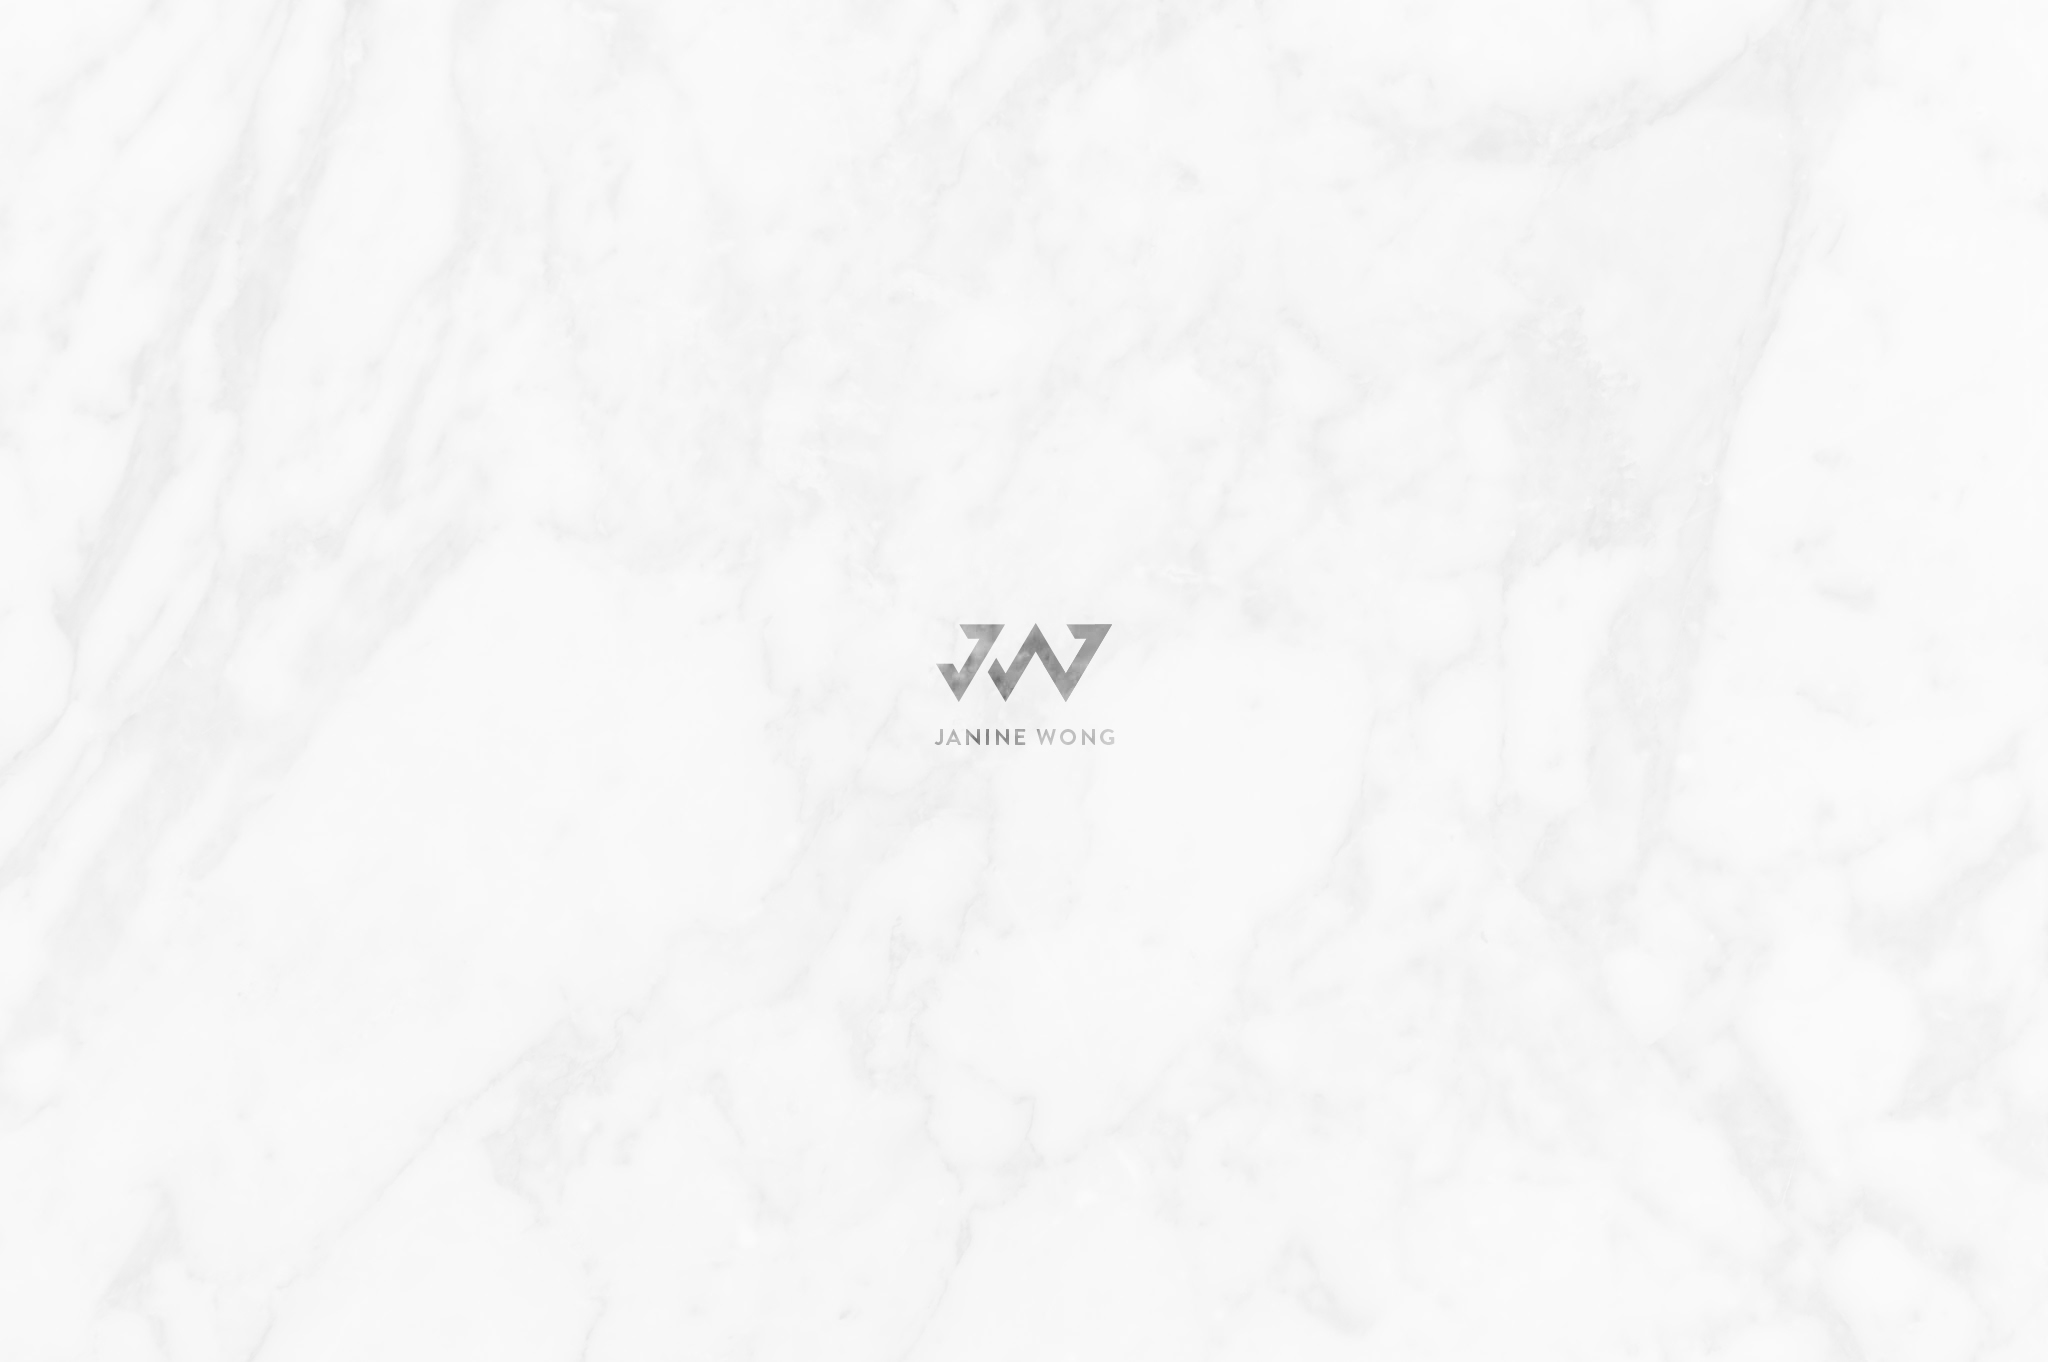
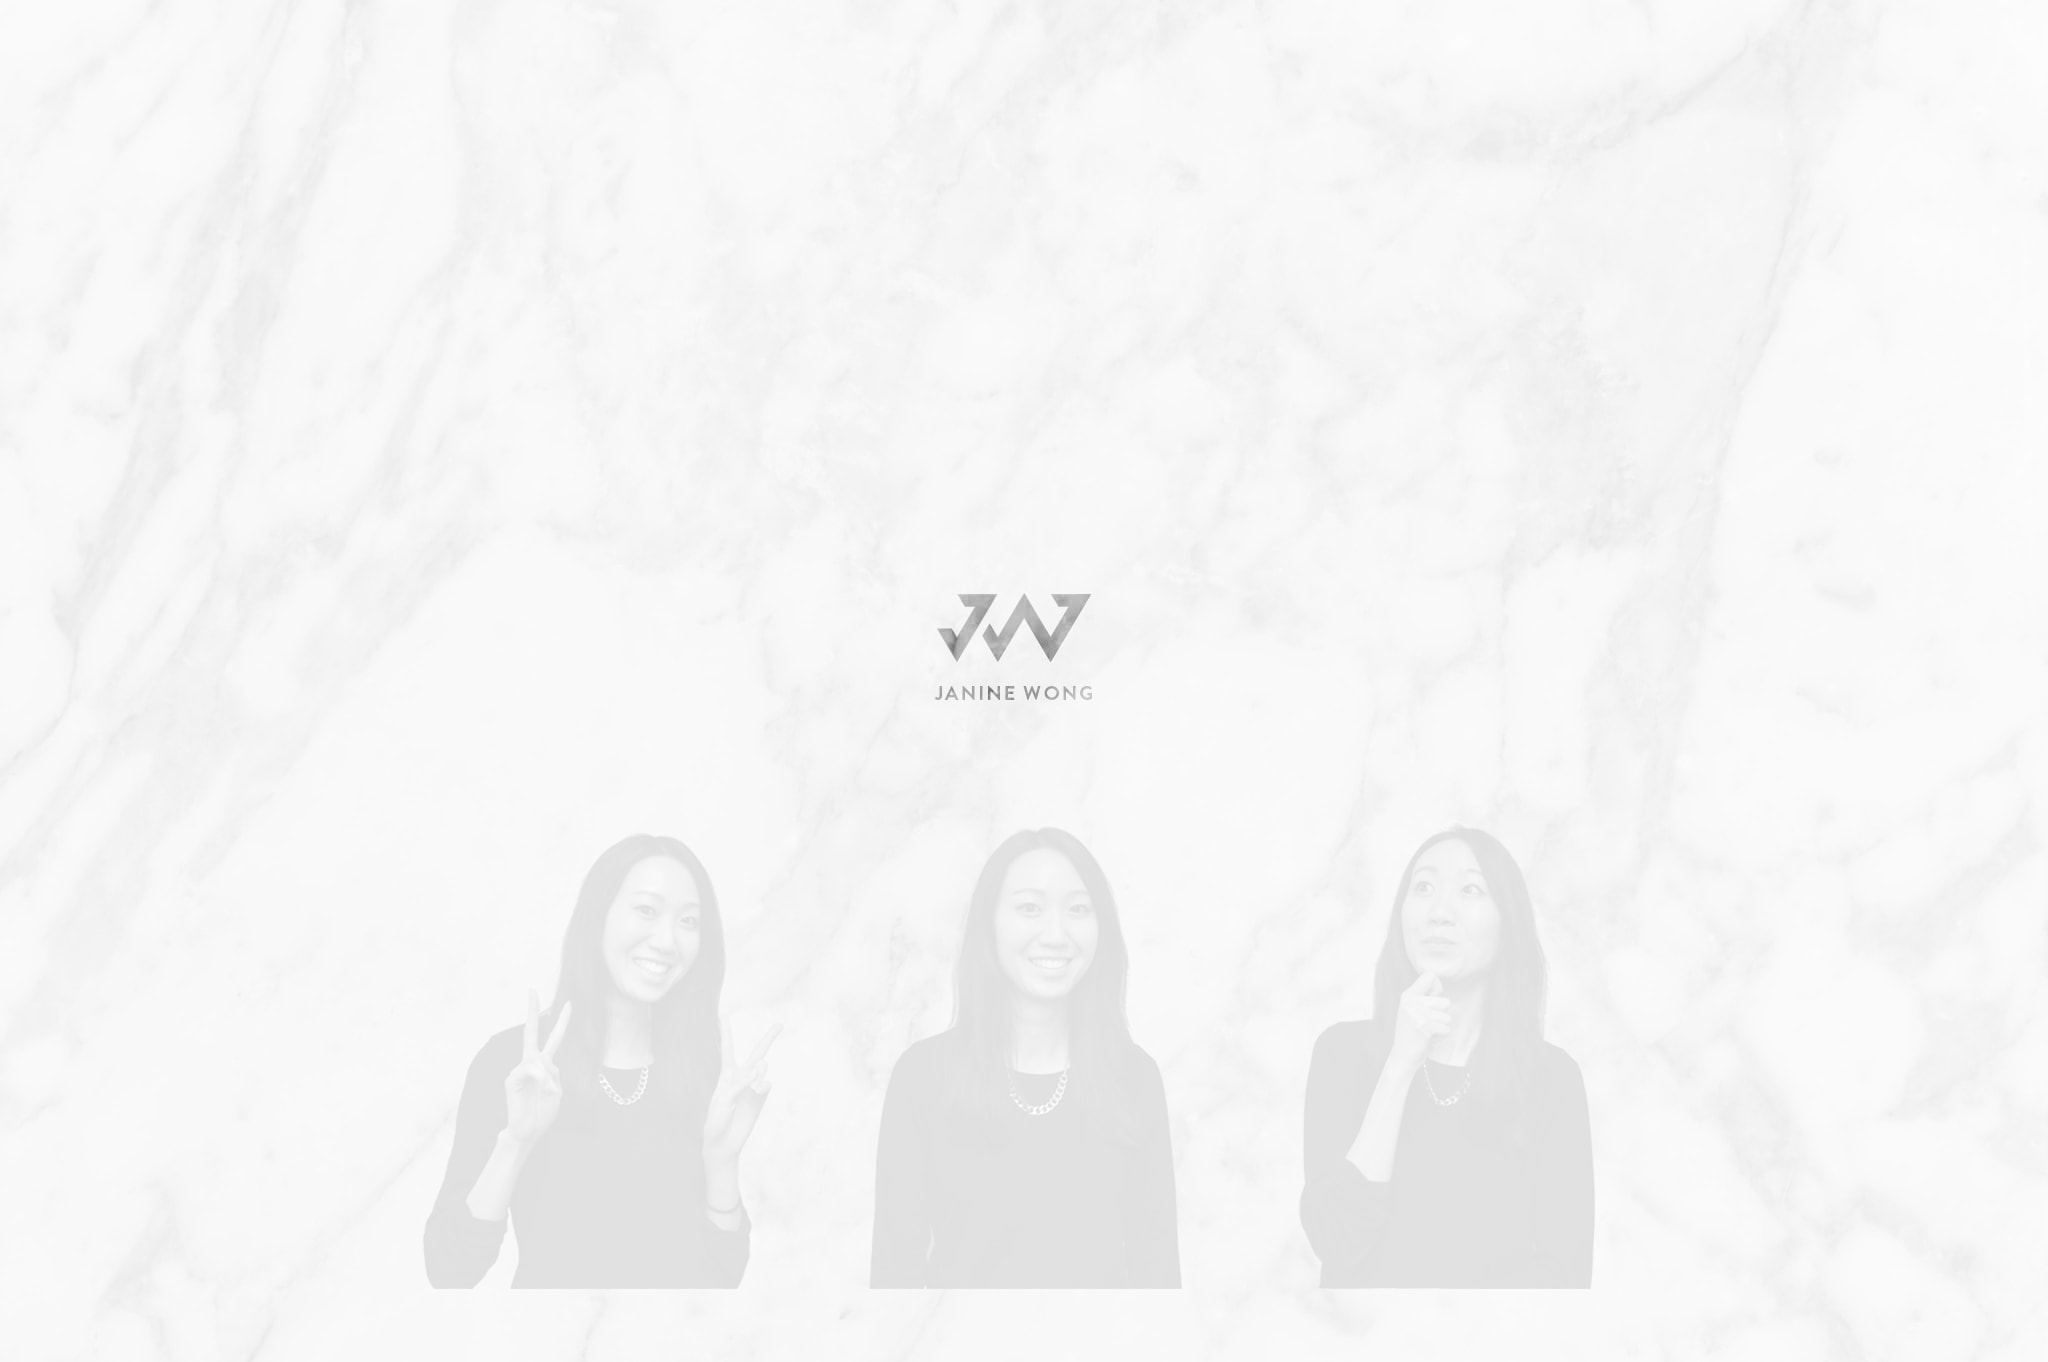
fixed about photo

diff --git a/index.html b/index.html
@@ -35,7 +35,7 @@
     
 
 
-    <div class="fullscreen background parallax"style="background-image:url('img/home-photo-03.jpg');" data-img-width="2049" data-img-height="1362" data-diff="100">
+    <div class="fullscreen background parallax"style="background-image:url('img/home-photo.jpg');" data-img-width="2049" data-img-height="1362" data-diff="100">
 
 
       <!-- ===================== Main Navigation ===================== -->
